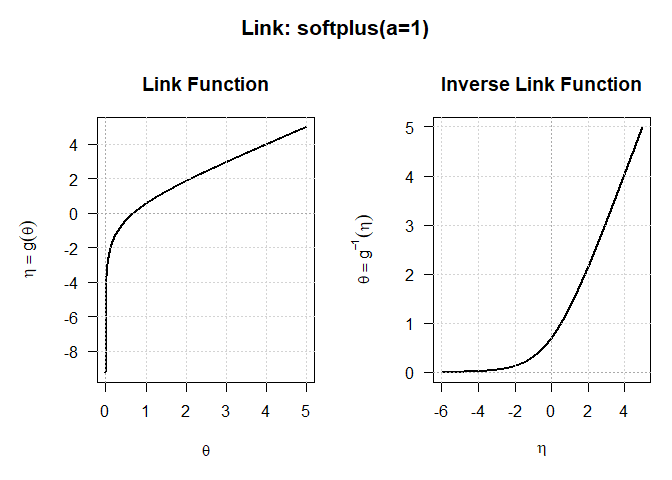
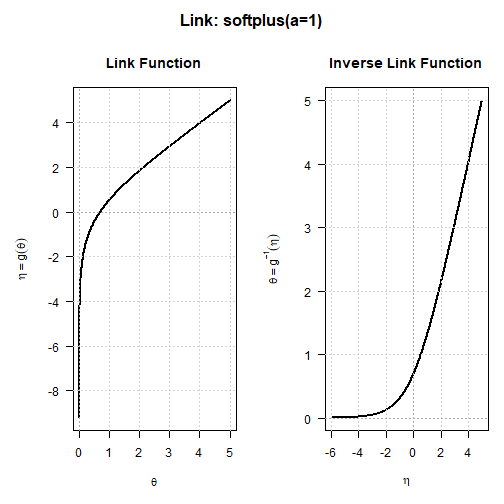
Point the README badges at the organisation
The R-CMD-check and Codecov badges still referenced giovannitinervia9,
and the two badge blocks were duplicated. Adds a lifecycle badge and the
correct install line.

diff --git a/README.md b/README.md
@@ -1,46 +1,35 @@
+---
+output: github_document
+---
 
 <!-- README.md is generated from README.Rmd. Please edit that file -->
-
 <!-- badges: start -->
-
-[![Codecov test
-coverage](https://codecov.io/gh/giovannitinervia9/linkfunctions7/graph/badge.svg)](https://app.codecov.io/gh/giovannitinervia9/linkfunctions7)
-<!-- badges: end --> <!-- badges: start -->
-[![R-CMD-check](https://github.com/giovannitinervia9/linkfunctions7/actions/workflows/R-CMD-check.yaml/badge.svg)](https://github.com/giovannitinervia9/linkfunctions7/actions/workflows/R-CMD-check.yaml)
+[![R-CMD-check](https://github.com/statmodels7/linkfunctions7/actions/workflows/R-CMD-check.yaml/badge.svg)](https://github.com/statmodels7/linkfunctions7/actions/workflows/R-CMD-check.yaml)
+[![Codecov test coverage](https://codecov.io/gh/statmodels7/linkfunctions7/graph/badge.svg)](https://app.codecov.io/gh/statmodels7/linkfunctions7)
+[![Lifecycle: experimental](https://img.shields.io/badge/lifecycle-experimental-orange.svg)](https://lifecycle.r-lib.org/articles/stages.html#experimental)
 <!-- badges: end -->
+
+
 
 # linkfunctions7
 
-The goal of `{linkfunctions7}` is to provide a collection of
-mathematical link functions using the S7 object-oriented programming
-system in R, providing exact analytical derivatives up to the fourth
-order for both the forward and inverse link functions.
+The goal of `{linkfunctions7}` is to provide a collection of mathematical link functions using the S7 object-oriented programming system in R, providing exact analytical derivatives up to the fourth order for both the forward and inverse link functions.
 
 ## Installation
 
-You can install the development version of `{linkfunctions7}` from
-GitHub with:
+You can install the development version of `{linkfunctions7}` from GitHub with:
+
 
 ``` r
 # install.packages("pak")
-pak::pak("giovannitinervia9/linkfunctions7")
+pak::pak("statmodels7/linkfunctions7")
 ```
 
 ## Overview and Examples
-
-The package revolves around a core `link` class. It includes specialized
-link functions and generic methods to evaluate the forward link
-$\eta = g(\theta)$, the inverse link $\theta = g^{-1}(\eta)$, and their
-analytical derivatives.
+The package revolves around a core `link` class. It includes specialized link functions and generic methods to evaluate the forward link $\eta = g(\theta)$, the inverse link $\theta = g^{-1}(\eta)$, and their analytical derivatives.
 
 ### The Softplus Link
-
-The `softplus_link()` is designed to model strictly positive parameters,
-enforcing the domain constraint $\theta > 0$. It serves as a robust
-alternative to the standard `log_link()`. While a log link implies a
-global exponential relationship, the Softplus transformation smoothly
-transitions to a linear asymptote for large positive values of the
-linear predictor $\eta$.
+The `softplus_link()` is designed to model strictly positive parameters, enforcing the domain constraint $\theta > 0$. It serves as a robust alternative to the standard `log_link()`. While a log link implies a global exponential relationship, the Softplus transformation smoothly transitions to a linear asymptote for large positive values of the linear predictor $\eta$.
 
 ``` r
 softplus_link(a = 1)
@@ -49,27 +38,23 @@ softplus_link(a = 1)
 #>   - Link parameters: a = 1
 ```
 
-You can visualize the behavior of any link object over its valid domain
-using the provided `plot()` method:
+You can visualize the behavior of any link object over its valid domain using the provided `plot()` method:
+
 
 ``` r
 plot(softplus_link(a = 1))
 ```
 
-<img src="man/figures/README-unnamed-chunk-4-1.png" alt="" width="100%" />
+<div class="figure">
+<img src="man/figures/README-unnamed-chunk-4-1.png" alt="plot of chunk unnamed-chunk-4" width="100%" />
+<p class="caption">plot of chunk unnamed-chunk-4</p>
+</div>
+
 
 ### Bounded Links and Derivatives
+The `bounded_link()` function generates a link object that restricts $\theta$ to a specified interval. When both lower and upper bounds are provided (a doubly bounded link), the function maps the interval $[\text{lwr}, \text{upr}]$ to the whole real line.
 
-The `bounded_link()` function generates a link object that restricts
-$\theta$ to a specified interval. When both lower and upper bounds are
-provided (a doubly bounded link), the function maps the interval
-$[\text{lwr}, \text{upr}]$ to the whole real line.
-
-The package exposes generic functions to evaluate the exact analytical
-derivatives for these transformations. The following example
-demonstrates how to evaluate the inverse link, followed by the first,
-second, and fourth order derivatives of the forward link function
-$g(\theta)$.
+The package exposes generic functions to evaluate the exact analytical derivatives for these transformations. The following example demonstrates how to evaluate the inverse link, followed by the first, second, and fourth order derivatives of the forward link function $g(\theta)$.
 
 ``` r
 link <- bounded_link(lwr = -3, upr = 2)
@@ -85,14 +70,8 @@ d4linkfun(link, theta)
 ```
 
 ## Diagnostic Validation
+To maintain mathematical rigor, `{linkfunctions7}` includes a comprehensive diagnostic method called `check_link()`. This function empirically verifies the algebraic invertibility of the transformations (confirming that $g^{-1}(g(\theta)) = \theta$). Furthermore, it tests strict monotonicity, the inverse function theorem, and validates all implemented analytical derivatives against numerical gradients to ensure accuracy.
 
-To maintain mathematical rigor, `{linkfunctions7}` includes a
-comprehensive diagnostic method called `check_link()`. This function
-empirically verifies the algebraic invertibility of the transformations
-(confirming that $g^{-1}(g(\theta)) = \theta$). Furthermore, it tests
-strict monotonicity, the inverse function theorem, and validates all
-implemented analytical derivatives against numerical gradients to ensure
-accuracy.
 
 ``` r
 check_link(log_link())
@@ -104,3 +83,4 @@ check_link(log_link())
 #>   [5] Link Derivatives:            [PASSED] 
 #>   [6] Inverse Link Derivatives:    [PASSED]
 ```
+